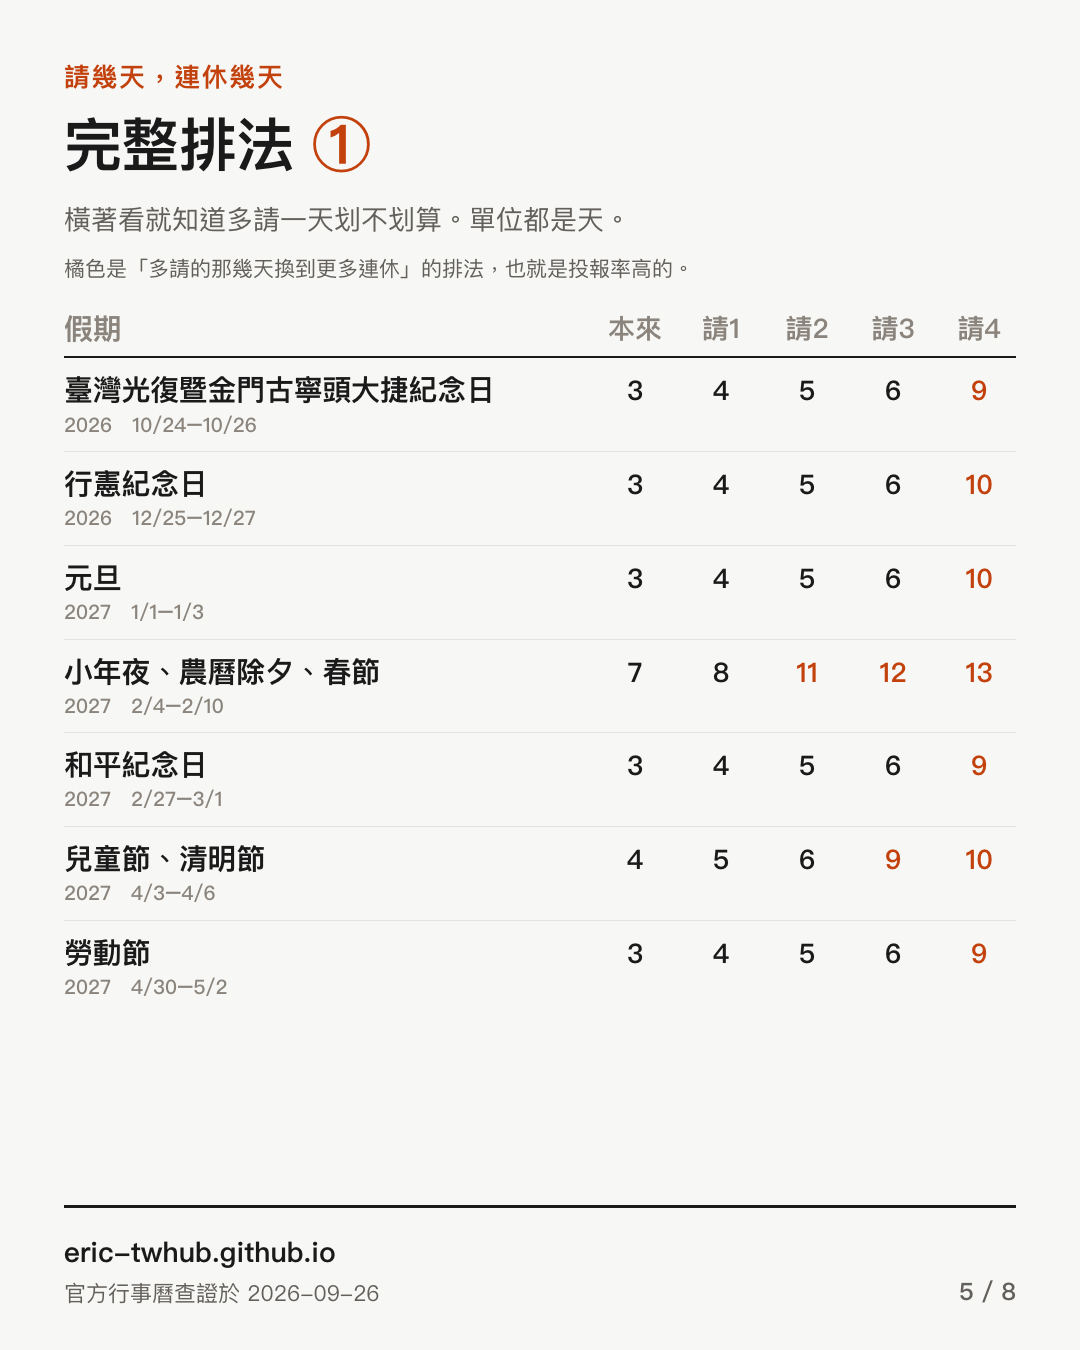
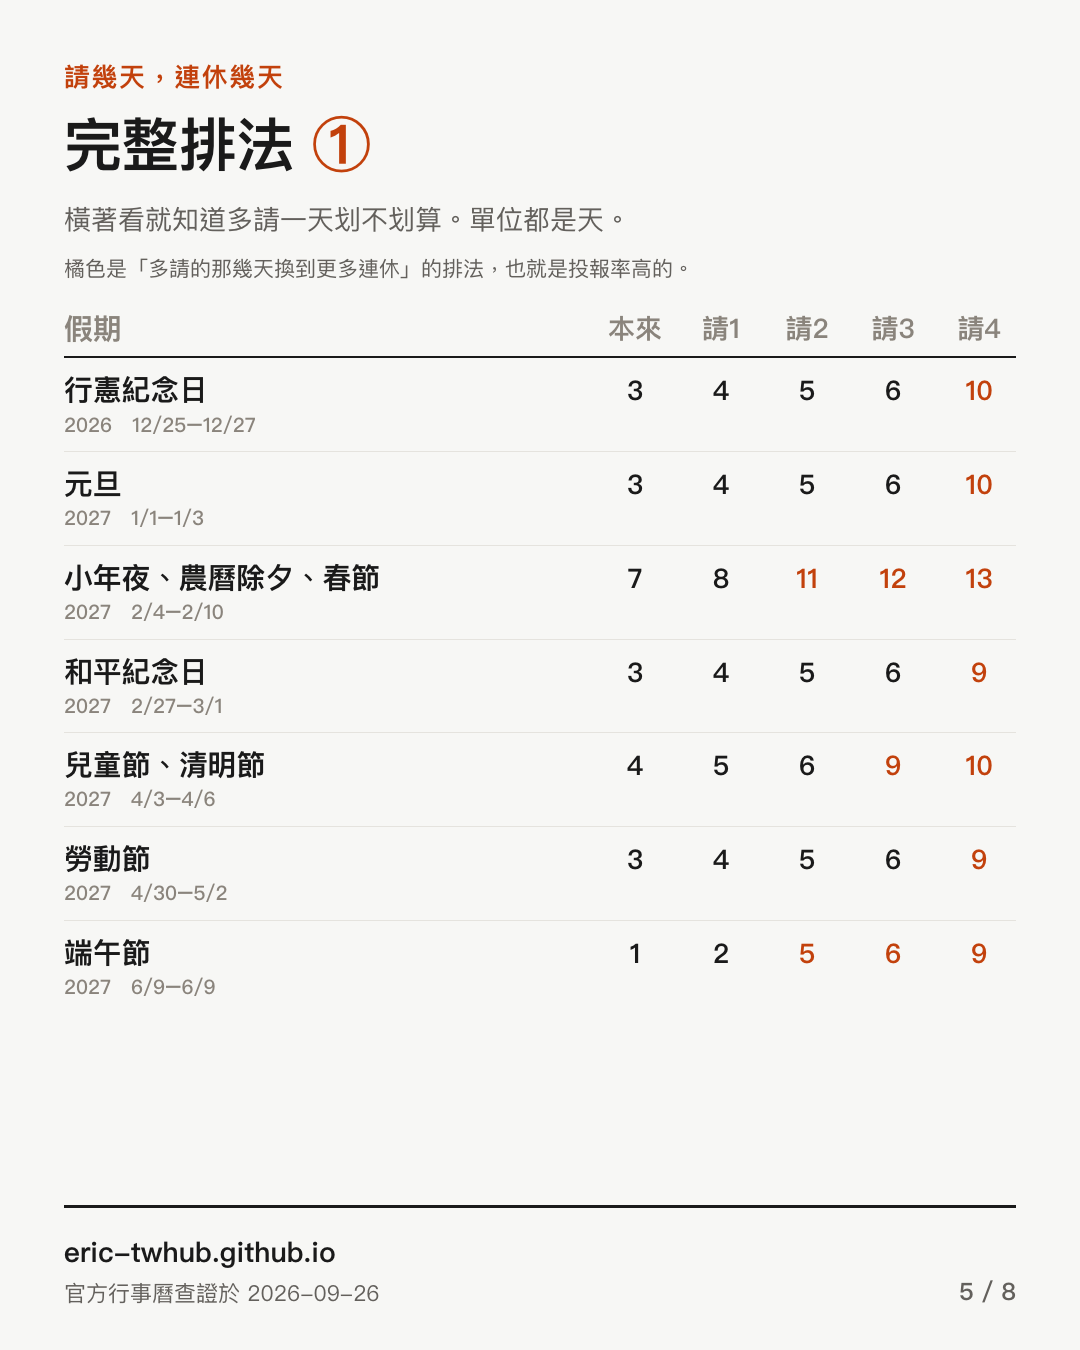
重產連假圖卡：加入韓國，撞期卡改用台日中韓簡稱

diff --git a/make_holiday_cards.py b/make_holiday_cards.py
@@ -72,6 +72,7 @@ h1 em{font-style:normal;color:#c2410c}
 .row{display:flex;gap:12px;align-items:baseline;padding:13px 0;
  border-bottom:1px solid #e5e3de}
 .row:last-child{border-bottom:0}
+.tight .row{padding:9px 0}
 .nm{flex:1 1 auto;font-size:29px;font-weight:700;line-height:1.28;letter-spacing:-.01em}
 .nm s{display:block;text-decoration:none;font-size:20px;font-weight:500;color:#8a847c;
  margin-top:4px;letter-spacing:0}
@@ -199,7 +200,8 @@ def build(d, today):
     # ── 3 撞期 ──
     rows = ''
     for o in ov:
-        who = '＋'.join(CN[c] for c in ('tw', 'jp', 'cn', 'kr') if c in o['countries'])
+        # 四國全上時全名排不下，用一字簡稱（台日中韓）
+        who = ''.join(CN[c][0] for c in ('tw', 'jp', 'cn', 'kr') if c in o['countries'])
         left = (datetime.date.fromisoformat(o['start'])
                 - datetime.date.fromisoformat(today)).days
         rows += (f'<div class="row"><div class="nm">{md(o["start"])}–{md(o["end"])}'
@@ -212,7 +214,7 @@ def build(d, today):
              '<div class="sub">同一天有兩個以上國家在放三天以上的連假，'
              '機票與住宿會一起被推上去。</div>'
              '<div class="legend">單純的週六日不算，那不會造成額外的需求高峰。</div>'
-             f'<div class="list">{rows}</div>' + foot(3, n, cal_note))
+             f'<div class="list tight">{rows}</div>' + foot(3, n, cal_note))
     out.append(('hol-03.png', page(inner)))
 
     # ── 4 請 1 天休最多 ──
